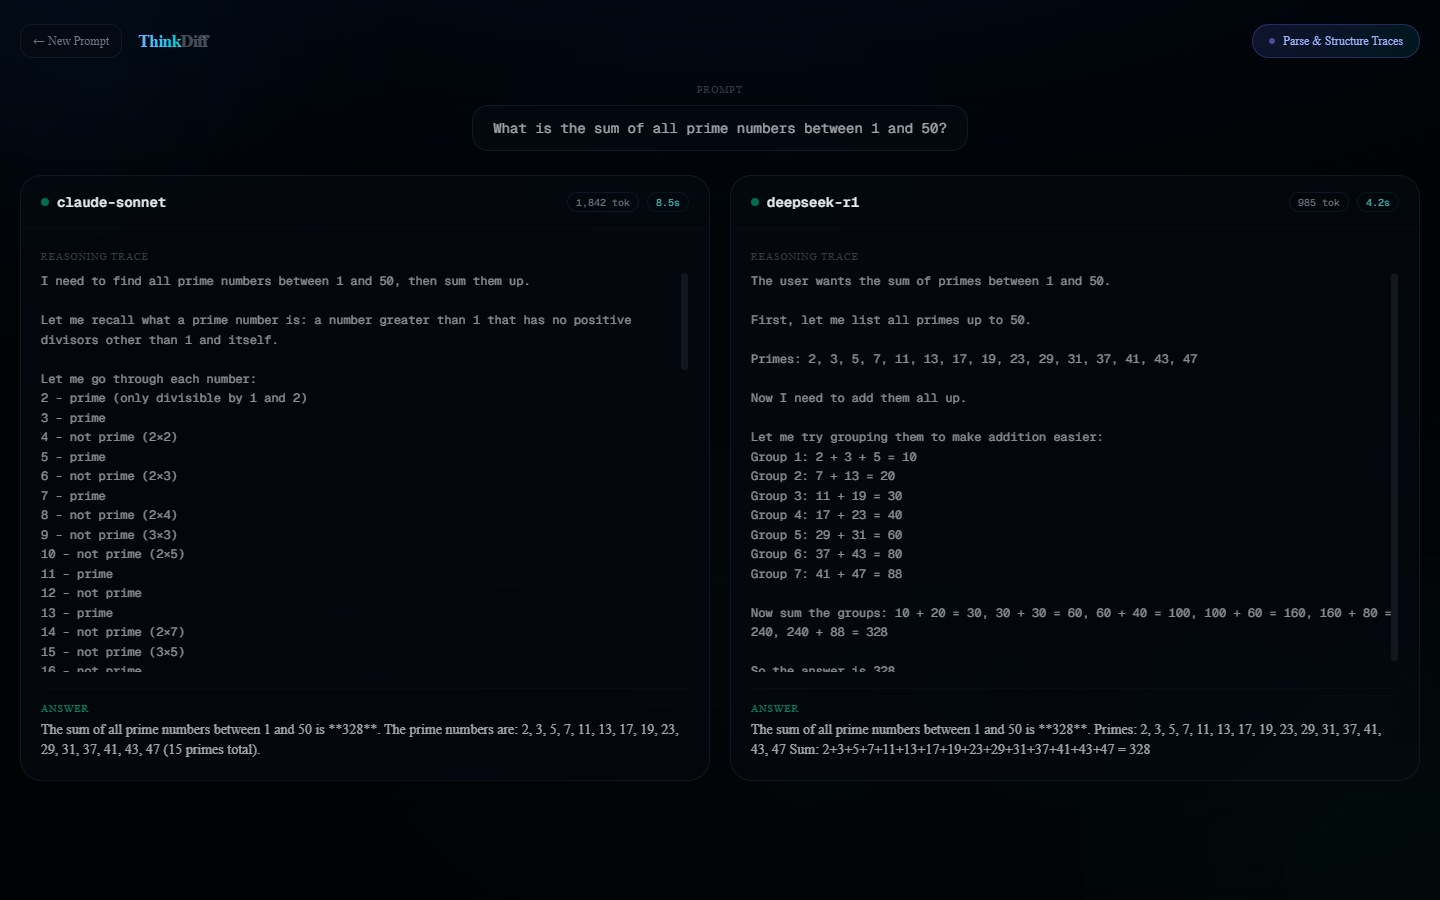
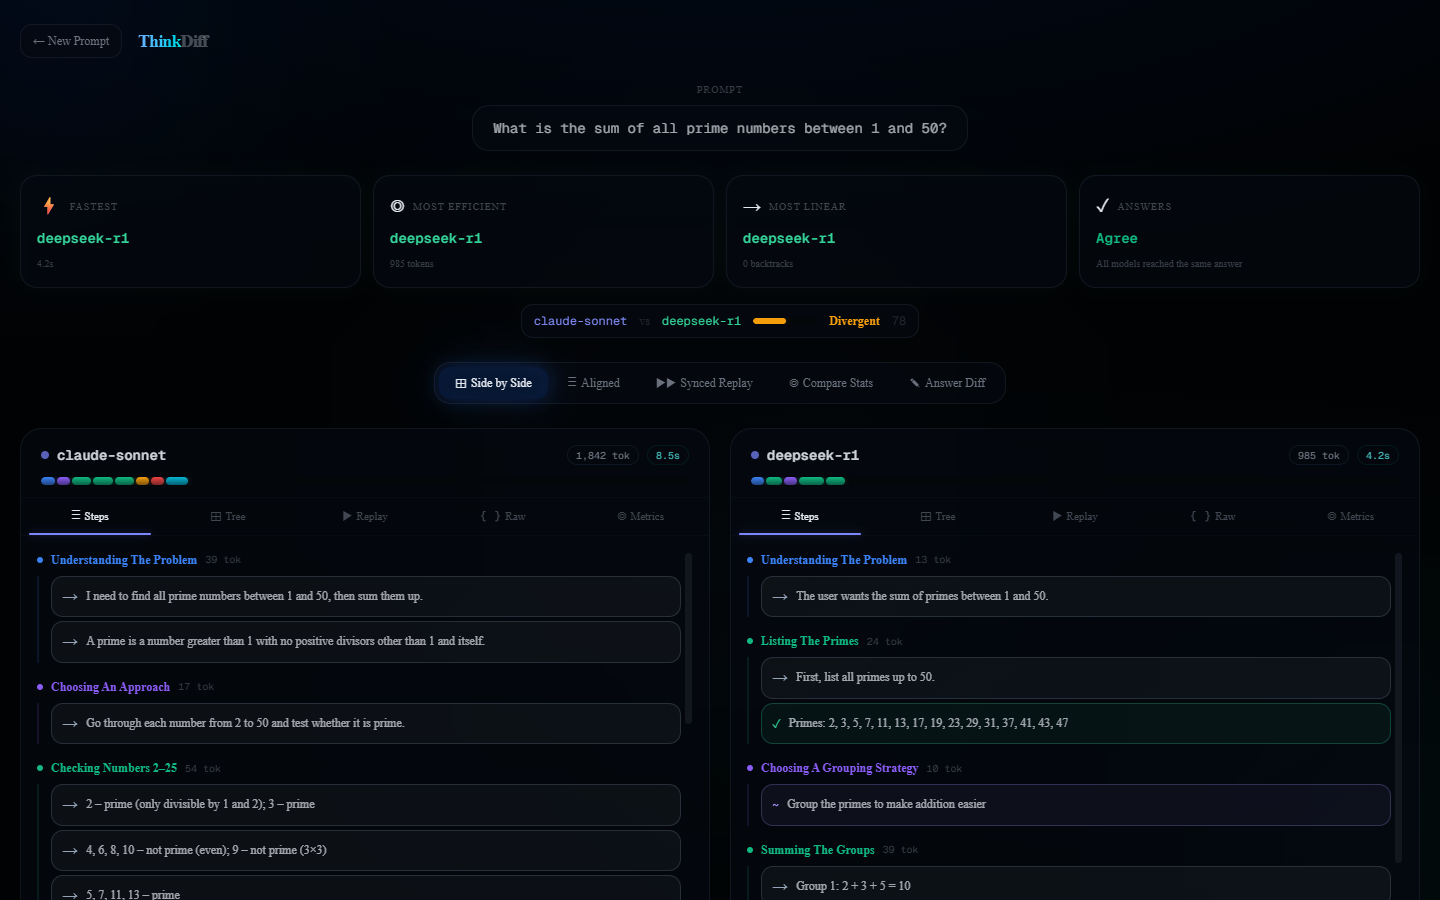
feat: make every demo view work without API keys
- Ship pre-parsed phases in the demo data and load them as structured traces
- Extract dependency-free buildStructuredTrace() shared by the parser and demo
- Compare final answers (bolded result) instead of full text for agreement

diff --git a/lib/parser/llm-parser.ts b/lib/parser/llm-parser.ts
@@ -1,11 +1,6 @@
 import Anthropic from "@anthropic-ai/sdk";
-import {
-  StructuredTrace,
-  TraceResult,
-  Phase,
-  PhaseType,
-  StepType,
-} from "./types";
+import { StructuredTrace, TraceResult } from "./types";
+import { buildStructuredTrace, RawPhase } from "./structure";
 
 const PARSE_PROMPT = `You are a reasoning trace analyzer. Given a raw reasoning trace from an LLM, parse it into structured phases and steps.
 
@@ -87,44 +82,6 @@ export async function parseTrace(
     };
   }
 
-  let charIndex = 0;
-  const phases: Phase[] = parsed.phases.map((p, pi) => {
-    const steps = (p.steps || []).map((s, si) => ({
-      id: `${pi}-${si}`,
-      content: s.content,
-      type: (s.type || "assertion") as StepType,
-    }));
-
-    const phaseText = steps.map((s) => s.content).join(" ");
-    const tokenEstimate = Math.ceil(phaseText.length / 4);
-    const startIndex = charIndex;
-    charIndex += phaseText.length;
-
-    return {
-      id: `phase-${pi}`,
-      label: p.label || `Phase ${pi + 1}`,
-      type: (p.type || "execute") as PhaseType,
-      steps,
-      tokenCount: tokenEstimate,
-      startIndex,
-      endIndex: charIndex,
-    };
-  });
-
-  return {
-    id: `${rawResult.model}-${Date.now()}`,
-    model: rawResult.model,
-    prompt,
-    rawTrace: rawResult.rawTrace,
-    totalTokens: rawResult.totalTokens,
-    totalTimeMs: rawResult.totalTimeMs,
-    phases,
-    answer: rawResult.answer,
-  };
+  return buildStructuredTrace(rawResult, prompt, parsed.phases);
 }
 
-interface RawPhase {
-  label: string;
-  type: string;
-  steps: { content: string; type: string }[];
-}

diff --git a/lib/parser/structure.ts b/lib/parser/structure.ts
@@ -1,0 +1,53 @@
+import { StructuredTrace, TraceResult, Phase, PhaseType, StepType } from "./types";
+
+export interface RawPhase {
+  label: string;
+  type: string;
+  steps: { content: string; type: string }[];
+}
+
+/**
+ * Turns parsed phases (from the LLM parser, or pre-parsed demo data) into a
+ * StructuredTrace with ids, token estimates and character offsets.
+ * Pure and dependency-free so it can run on the client.
+ */
+export function buildStructuredTrace(
+  rawResult: TraceResult,
+  prompt: string,
+  rawPhases: RawPhase[]
+): StructuredTrace {
+  let charIndex = 0;
+  const phases: Phase[] = rawPhases.map((p, pi) => {
+    const steps = (p.steps || []).map((s, si) => ({
+      id: `${pi}-${si}`,
+      content: s.content,
+      type: (s.type || "assertion") as StepType,
+    }));
+
+    const phaseText = steps.map((s) => s.content).join(" ");
+    const tokenEstimate = Math.ceil(phaseText.length / 4);
+    const startIndex = charIndex;
+    charIndex += phaseText.length;
+
+    return {
+      id: `phase-${pi}`,
+      label: p.label || `Phase ${pi + 1}`,
+      type: (p.type || "execute") as PhaseType,
+      steps,
+      tokenCount: tokenEstimate,
+      startIndex,
+      endIndex: charIndex,
+    };
+  });
+
+  return {
+    id: `${rawResult.model}-${Date.now()}`,
+    model: rawResult.model,
+    prompt,
+    rawTrace: rawResult.rawTrace,
+    totalTokens: rawResult.totalTokens,
+    totalTimeMs: rawResult.totalTimeMs,
+    phases,
+    answer: rawResult.answer,
+  };
+}

diff --git a/components/prompt-input.tsx b/components/prompt-input.tsx
@@ -7,6 +7,8 @@ import { Button } from "@/components/ui/button";
 import { Textarea } from "@/components/ui/textarea";
 import { MODEL_OPTIONS } from "@/lib/providers/types";
 import { useStore } from "@/lib/store";
+import { buildStructuredTrace, RawPhase } from "@/lib/parser/structure";
+import { TraceResult } from "@/lib/parser/types";
 
 const EXAMPLE_PROMPTS = [
   {
@@ -128,8 +130,13 @@ export function PromptInput() {
             onClick={async () => {
               const res = await fetch("/examples/math-reasoning.json");
               const data = await res.json();
+              const results: (TraceResult & { phases: RawPhase[] })[] = data.results;
               setPrompt(data.prompt);
-              setRawResults(data.results);
+              setRawResults(results);
+              // Demo traces ship pre-parsed, so every view works without API keys
+              useStore.getState().setStructuredTraces(
+                results.map((r) => buildStructuredTrace(r, data.prompt, r.phases))
+              );
               router.push("/compare");
             }}
             className="inline-flex items-center gap-1.5 px-3 py-1.5 rounded-lg text-xs font-medium bg-gradient-to-r from-[oklch(0.25_0.08_260_/_60%)] to-[oklch(0.25_0.06_195_/_60%)] border border-[oklch(0.4_0.1_260_/_30%)] text-[oklch(0.8_0.12_195)] hover:glow-cyan transition-all duration-300"

diff --git a/components/comparison-summary.tsx b/components/comparison-summary.tsx
@@ -4,6 +4,7 @@ import { useMemo } from "react";
 import { motion } from "framer-motion";
 import { StructuredTrace } from "@/lib/parser/types";
 import { divergenceScore } from "@/lib/parser/alignment";
+import { answerKey } from "@/lib/answer";
 
 const MODEL_COLORS: Record<string, string> = {
   "claude-sonnet": "#818cf8",
@@ -35,11 +36,11 @@ export function ComparisonSummary({ traces }: ComparisonSummaryProps) {
     )[0];
 
     // Answer agreement
-    const answers = traces.map((t) => t.answer.trim().toLowerCase());
+    const answers = traces.map((t) => answerKey(t.answer));
     const allAgree = answers.every((a) => a === answers[0]);
     const answerGroups = new Map<string, string[]>();
     traces.forEach((t) => {
-      const key = t.answer.trim().toLowerCase().slice(0, 100);
+      const key = answerKey(t.answer);
       const existing = answerGroups.get(key) ?? [];
       existing.push(t.model);
       answerGroups.set(key, existing);

diff --git a/lib/answer.ts b/lib/answer.ts
@@ -1,0 +1,16 @@
+/**
+ * Reduces a model's answer to a comparable key so that answers with the same
+ * result but different explanations count as agreeing. Prefers the first
+ * **bold** span (models usually bold the final result), then falls back to
+ * the whole answer, lowercased with whitespace and punctuation collapsed.
+ */
+export function answerKey(answer: string): string {
+  const bold = answer.match(/\*\*(.+?)\*\*/);
+  const core = bold ? bold[1] : answer;
+  return core
+    .toLowerCase()
+    .replace(/[^\p{L}\p{N}.]+/gu, " ")
+    .replace(/\.(?!\d)/g, " ")
+    .trim()
+    .replace(/\s+/g, " ");
+}

diff --git a/components/answer-diff.tsx b/components/answer-diff.tsx
@@ -3,6 +3,7 @@
 import { useMemo } from "react";
 import { motion } from "framer-motion";
 import { StructuredTrace } from "@/lib/parser/types";
+import { answerKey } from "@/lib/answer";
 
 const MODEL_COLORS: Record<string, string> = {
   "claude-sonnet": "#818cf8",
@@ -97,7 +98,7 @@ export function AnswerDiff({ traces }: AnswerDiffProps) {
   }));
 
   // Check agreement
-  const normalized = answers.map((a) => a.answer.trim().toLowerCase());
+  const normalized = answers.map((a) => answerKey(a.answer));
   const allAgree = normalized.every((a) => a === normalized[0]);
 
   // Compute diffs between pairs

diff --git a/README.md b/README.md
@@ -11,7 +11,7 @@
 
 <p align="center">
   <img src="docs/images/home.png" alt="ThinkDiff home screen: prompt input, example prompts and model selection" width="49%" />
-  <img src="docs/images/compare.png" alt="ThinkDiff comparison view: Claude Sonnet and DeepSeek R1 reasoning traces side by side" width="49%" />
+  <img src="docs/images/compare.png" alt="ThinkDiff comparison view: summary cards and structured reasoning phases for Claude Sonnet and DeepSeek R1" width="49%" />
 </p>
 
 ---
@@ -107,7 +107,7 @@ npm install
 npm run dev
 ```
 
-Open [http://localhost:3000](http://localhost:3000) and click **"Demo — no keys"** to load a pre-recorded math reasoning comparison between Claude Sonnet 4 and DeepSeek R1. The raw traces and answers display without any API keys; clicking **"Parse & Structure Traces"** to unlock the Tree, Replay, Aligned and Metrics views requires `ANTHROPIC_API_KEY`.
+Open [http://localhost:3000](http://localhost:3000) and click **"Demo — no keys"** to load a pre-recorded math reasoning comparison between Claude Sonnet 4 and DeepSeek R1. The demo traces ship pre-parsed, so every view — Steps, Tree, Replay, Aligned, Synced Replay, Metrics and Answer Diff — works with no API keys.
 
 ### Compare Your Own Prompts
 

diff --git a/CHANGELOG.md b/CHANGELOG.md
@@ -10,7 +10,13 @@ All notable changes to this project are documented here. The format is based on 
 - `.env.example` and `npm run typecheck`.
 - Request validation for `/api/execute` (known models, prompt length) and error handling for `/api/parse`.
 
+- Demo traces ship pre-parsed, so every visualization works without API keys.
+
+### Changed
+- Phase/step structuring moved to a dependency-free `lib/parser/structure.ts`, shared by the LLM parser and the demo.
+
 ### Fixed
+- Answer agreement now compares the final result (the bolded answer) instead of the full text, so answers that differ only in explanation count as agreeing.
 - Lint errors in replay components (setState in effect) and the metrics donut chart (variable reassigned during render).
 
 ## [0.1.0]
